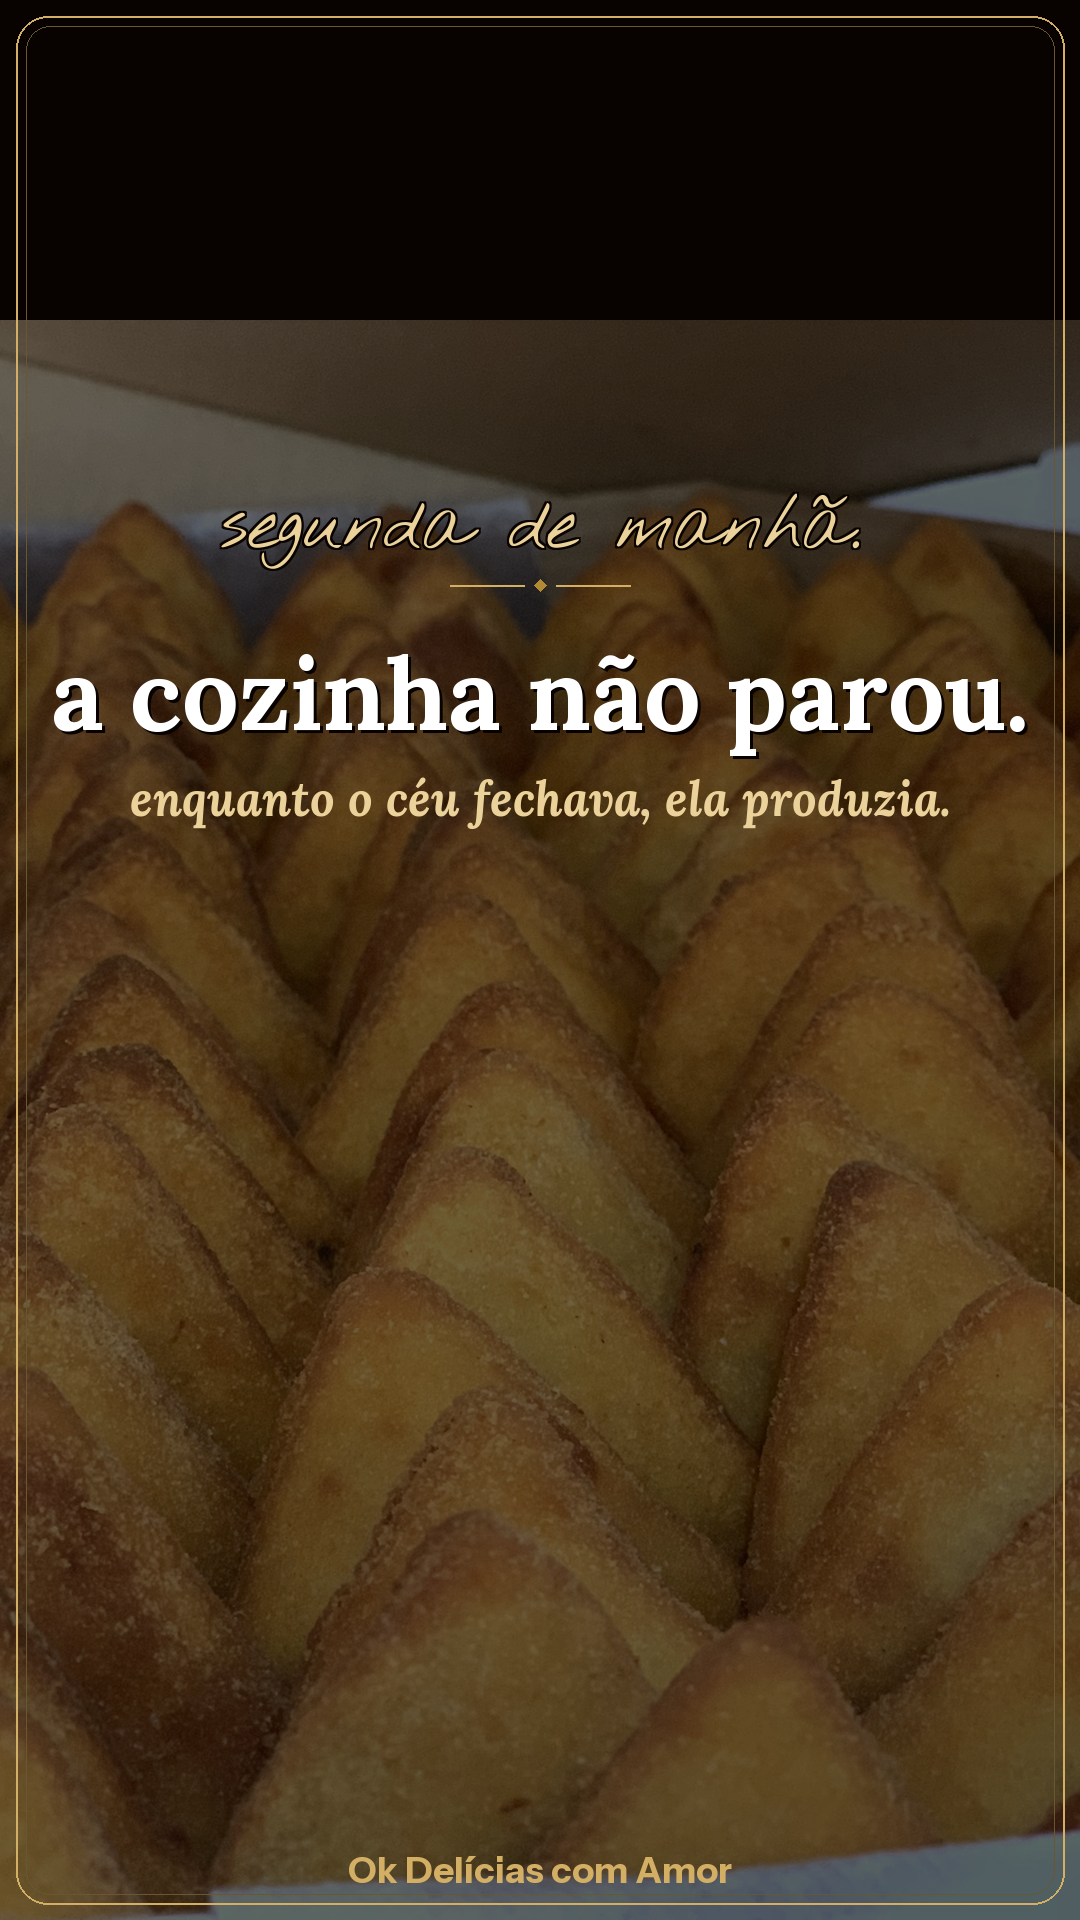
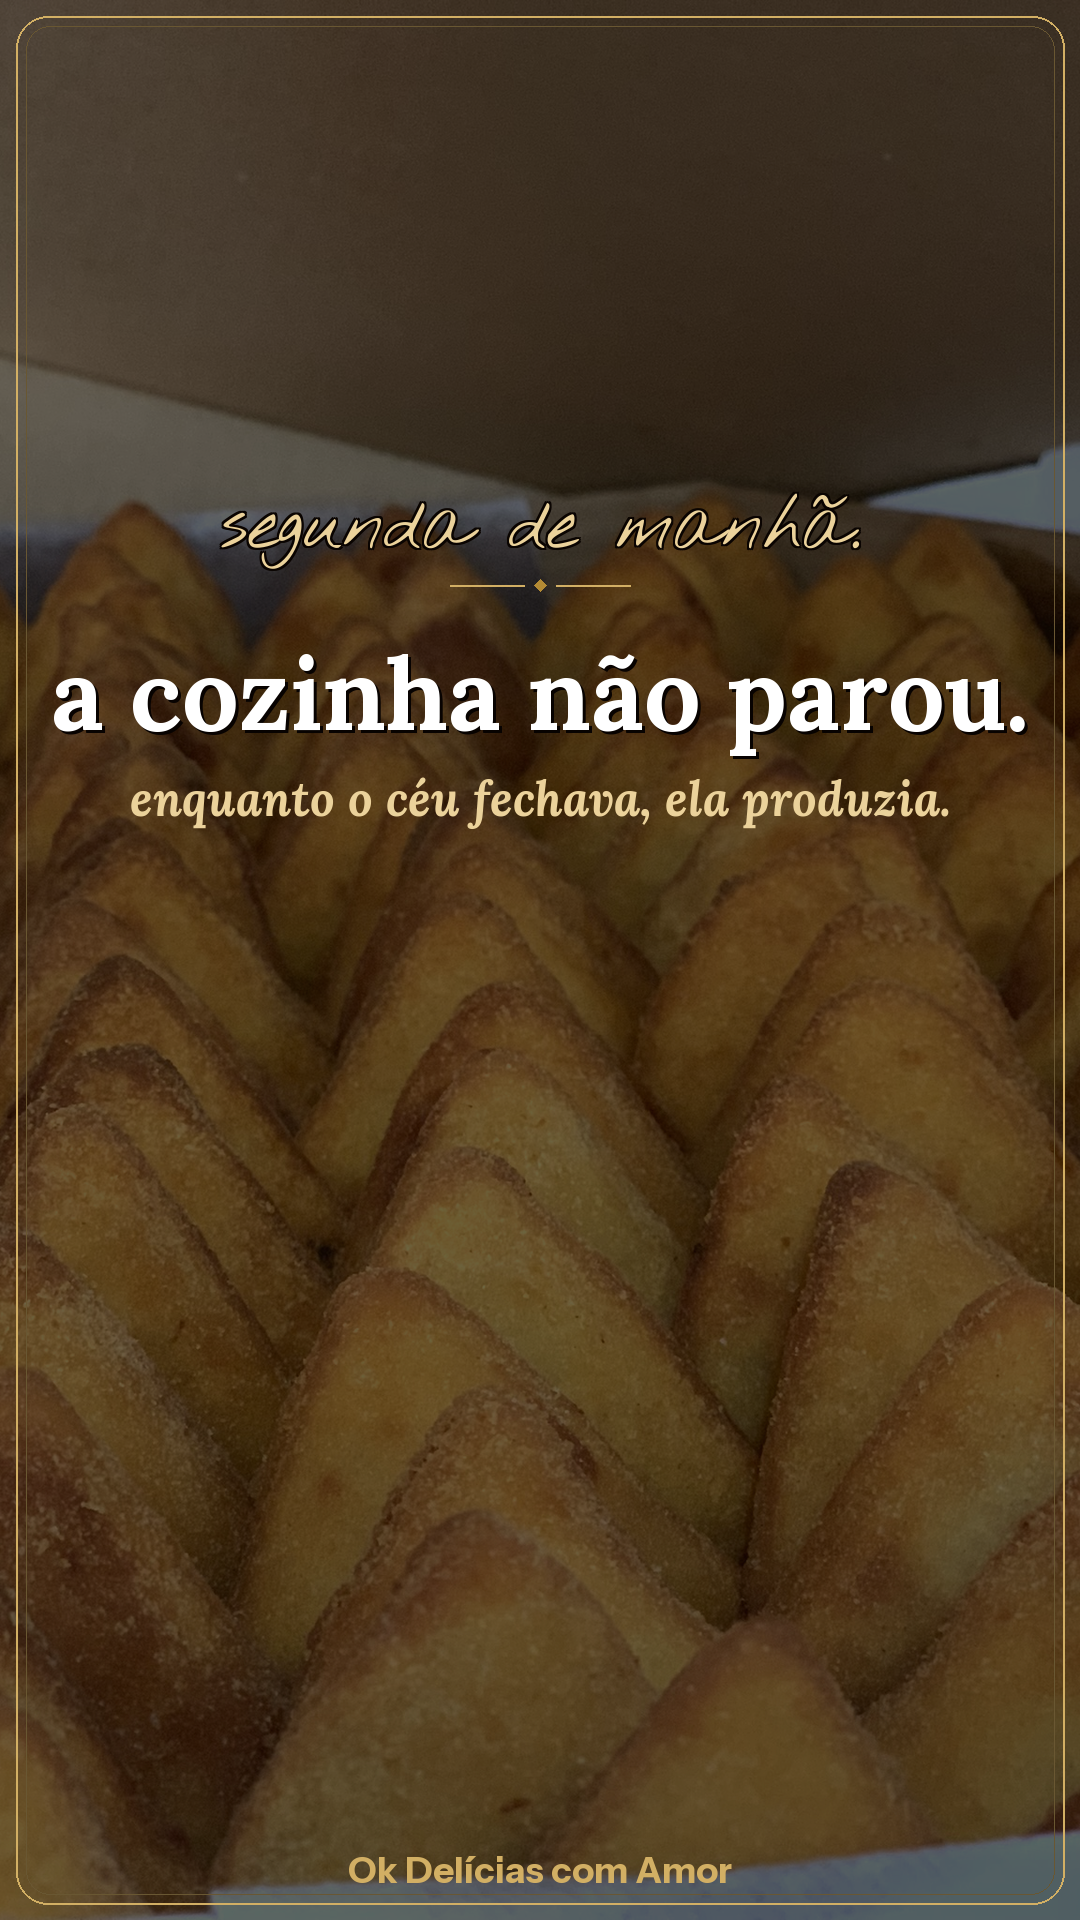
Corrige story_maio25_1: remove bloco gradiente quebrado e fix y_off no foto_fundo

Changed region(s): [[0.0, 0.0, 1.0, 0.1875]]

diff --git a/03 - Scripts/stories_maio25.py b/03 - Scripts/stories_maio25.py
@@ -64,8 +64,8 @@ def foto_fundo(path, overlay_alpha=160, overlay_color=(18, 8, 2)):
     nw      = int(img.width  * ratio)
     nh      = int(img.height * ratio)
     img     = img.resize((nw, nh), Image.LANCZOS)
-    x_off   = (nw - W) // 2
-    y_off   = (nh - H) // 2
+    x_off   = max(0, (nw - W) // 2)
+    y_off   = max(0, (nh - H) // 2)
     img     = img.crop((x_off, y_off, x_off + W, y_off + H))
     # Overlay escuro quente
     overlay = Image.new("RGBA", (W, H), overlay_color + (overlay_alpha,))
@@ -203,11 +203,6 @@ def story_1():
     fnt_tit = load_font("Lora-Bold.ttf",                100)
     fnt_sub = load_font("Lora-BoldItalic.ttf",           48)
     fnt_br  = load_font("InstrumentSans-Bold.ttf",       36)
-
-    # Gradiente escuro no topo (lê melhor o script)
-    for y in range(320):
-        alpha = int(120 * (1 - y / 320))
-        draw.line([(0, y), (W, y)], fill=lerp((8, 3, 1), (0, 0, 0), 0), )
 
     cy = 480
 